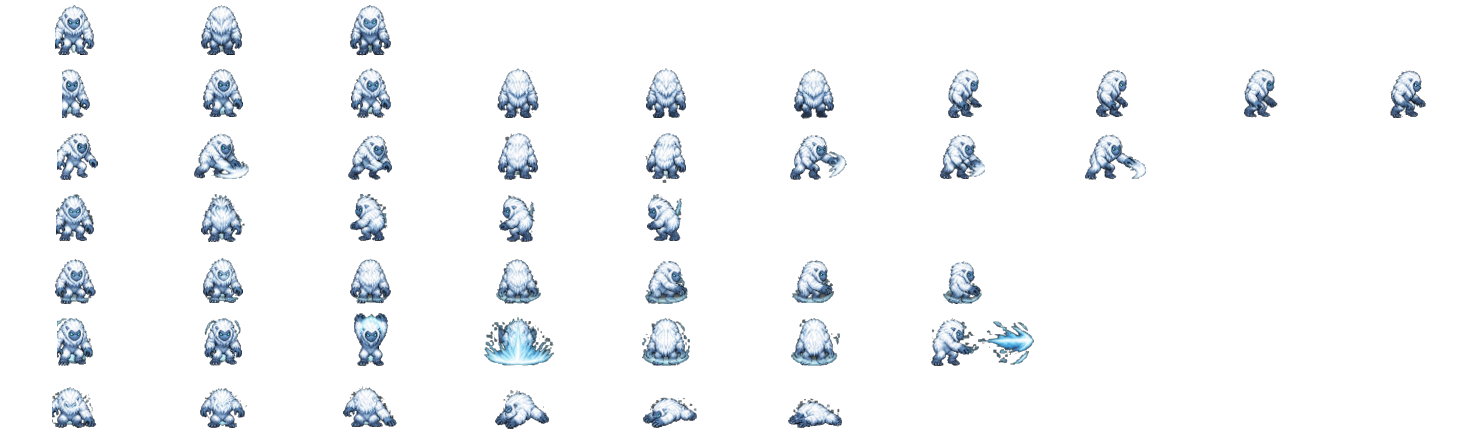
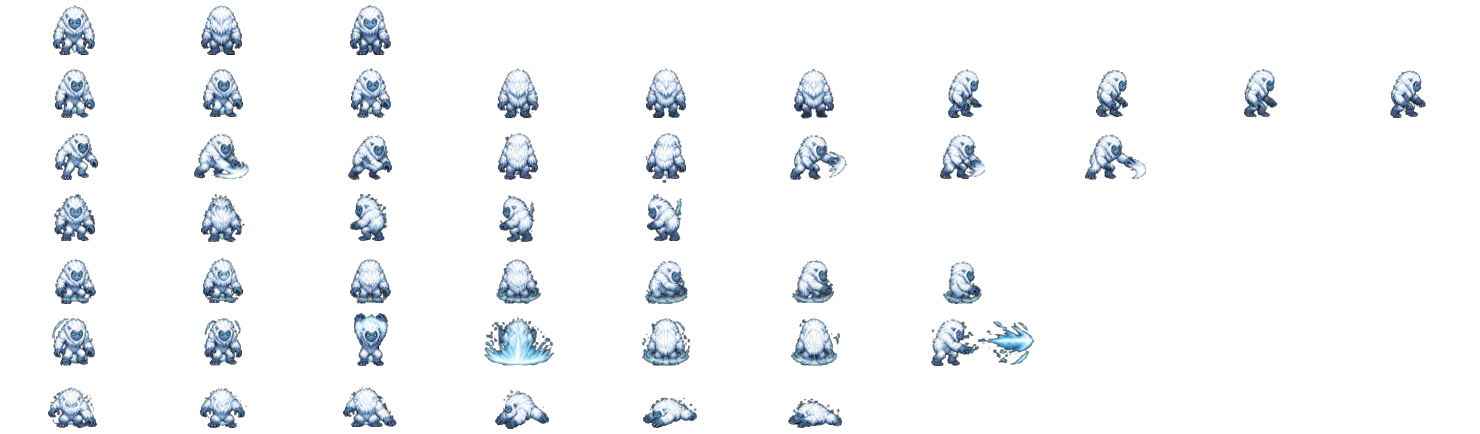
Fix the Frost Yeti sprite: the sheet crop (x0 220) clipped the first pose of several rows -> x0 160, and the telegraph row starts at x 210 so its long row label is not cut in

diff --git a/tools/build-monsters.js b/tools/build-monsters.js
@@ -141,8 +141,8 @@ const SHEETS = {
     rows: [['down', 8], ['up', 8], ['side', 8], ['side_b', 8], ['quarter', 8], ['quarter_b', 8], ['quarter_c', 8]],
   },
   yeti: {
-    file: 'B/B3/2', height: 50, region: [220, 0, 2048, 2048],
-    rows: [['idle', 3], ['walk', 10], ['attack', 8], ['hit', 5], ['telegraph', 7], ['special', 7], ['death', 6]],
+    file: 'B/B3/2', height: 50, region: [160, 0, 2048, 2048], // row labels end at x ≤ 150; the first poses start at x 181 (220 clipped them)
+    rows: [['idle', 3], ['walk', 10], ['attack', 8], ['hit', 5], ['telegraph', 7, { x: [210, 2048] }], ['special', 7], ['death', 6]],
   },
   // rows = directions (down, up, left, right); columns idle · walk ×2 · attack · hit · telegraph · special · death
   frost_imp: {

diff --git a/CLAUDE.md b/CLAUDE.md
@@ -714,7 +714,8 @@ Push to GitHub (`origin` = github.com/jepzaze6665-dev/EO-ver0.1, branch `main`) 
   step erased big fur areas as "gaps". Sheet options: `pocket: 1e9` (no pockets: the outline is complete) + new `bgErode: r`
   (removeBackground floods only through "core" background — every pixel within r is background — then widens back r px, so it
   can't leak through thin outline gaps). Used by frost_bear + rime_wolf (whose config still named 'B/B1/1': the file is 1.png).
-  Check white sprites on a dark / magenta backdrop — holes are invisible on white. Seen: yeti frames clipped on the left (frame
-  slicing, not holes) — not fixed yet.
+  Check white sprites on a dark / magenta backdrop — holes are invisible on white.
+  Yeti fix: sheet region x0 220 clipped the first pose of several rows (they start at x 181) -> region x0 160 (row labels end
+  ≤ 150) + telegraph row `x: [210, 2048]` (its long "TELEGRAPH" label reached past 200; the pose starts at 217).
 - AG art swapped to the owner's new set (2026-09-29): build-player sheet option `facing` (per-sheet side rows; AG ATK1's
   attack poses are mirrored vs its idle poses) + AG `nearestBody`; dodge now plays the real DASH sheet. Walk step-bob kept.
